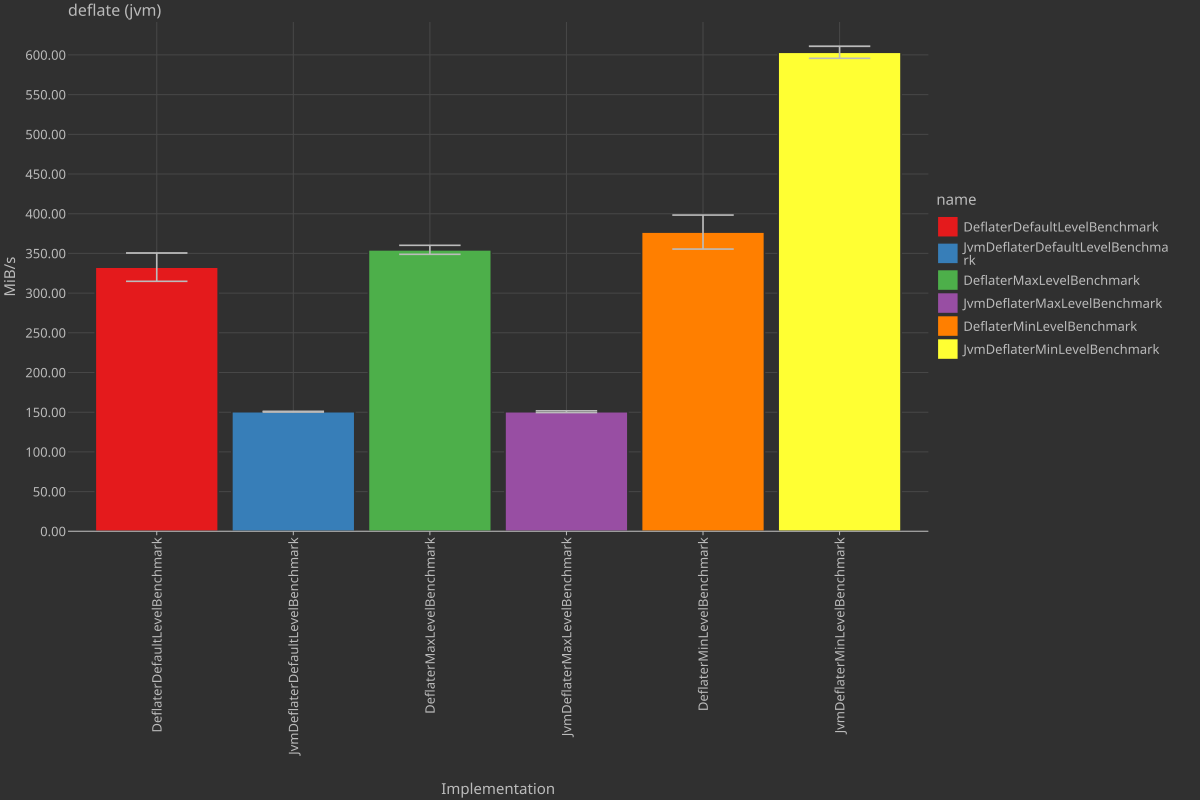
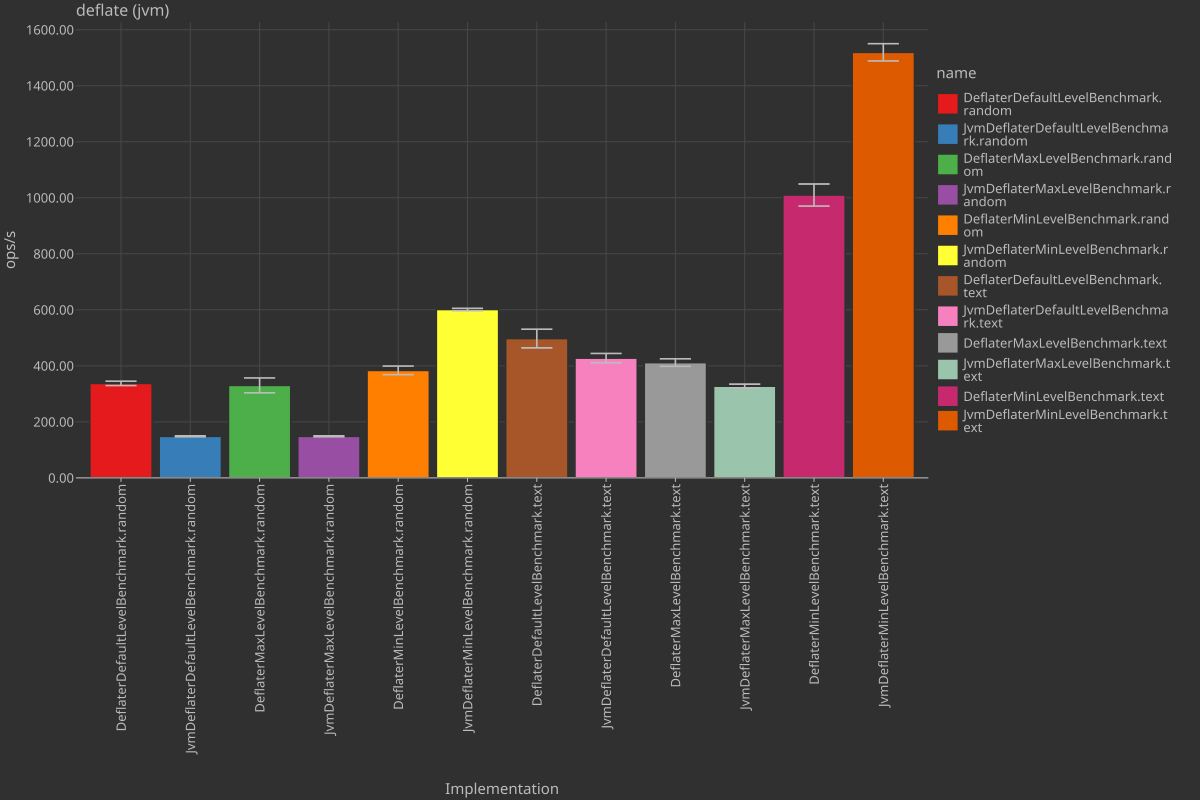
Add text compression benchmark cases, update to latest Karbide version

diff --git a/kompress-benchmarks/src/commonMain/kotlin/dev/karmakrafts/kompress/deflate/AbstractDeflaterBenchmark.kt b/kompress-benchmarks/src/commonMain/kotlin/dev/karmakrafts/kompress/deflate/AbstractDeflaterBenchmark.kt
@@ -33,9 +33,9 @@ abstract class AbstractDeflaterBenchmark(private val level: Int) {
     protected val buffer: Buffer = Buffer()
     protected val chunkBuffer: ByteArray = ByteArray(4096)
 
-    @JvmName("small")
+    @JvmName("random")
     @Benchmark
-    fun small(): ByteArray {
+    fun random(): ByteArray {
         deflater.reset()
         deflater.setInput(data)
         deflater.finish()
@@ -47,9 +47,9 @@ abstract class AbstractDeflaterBenchmark(private val level: Int) {
         return buffer.readByteArray()
     }
 
-    @JvmName("large")
+    @JvmName("text")
     @Benchmark
-    fun large(): ByteArray {
+    fun text(): ByteArray {
         deflater.reset()
         deflater.setInput(aliceInWonderlandData)
         deflater.finish()

diff --git a/kompress-benchmarks/src/commonMain/kotlin/dev/karmakrafts/kompress/deflate/AbstractInflaterBenchmark.kt b/kompress-benchmarks/src/commonMain/kotlin/dev/karmakrafts/kompress/deflate/AbstractInflaterBenchmark.kt
@@ -34,9 +34,9 @@ abstract class AbstractInflaterBenchmark(level: Int) {
     protected val buffer: Buffer = Buffer()
     protected val chunkBuffer: ByteArray = ByteArray(4096)
 
-    @JvmName("small")
+    @JvmName("random")
     @Benchmark
-    fun small(): ByteArray {
+    fun random(): ByteArray {
         inflater.reset()
         inflater.setInput(data)
         inflater.finish()
@@ -48,9 +48,9 @@ abstract class AbstractInflaterBenchmark(level: Int) {
         return buffer.readByteArray()
     }
 
-    @JvmName("large")
+    @JvmName("text")
     @Benchmark
-    fun large(): ByteArray {
+    fun text(): ByteArray {
         inflater.reset()
         inflater.setInput(compressedAliceInWonderland)
         inflater.finish()

diff --git a/kompress-benchmarks/src/jvmMain/kotlin/dev/karmakrafts/kompress/deflate/AbstractJvmDeflaterBenchmark.kt b/kompress-benchmarks/src/jvmMain/kotlin/dev/karmakrafts/kompress/deflate/AbstractJvmDeflaterBenchmark.kt
@@ -33,9 +33,9 @@ abstract class AbstractJvmDeflaterBenchmark(level: Int) {
     protected val buffer: Buffer = Buffer()
     protected val chunkBuffer: ByteArray = ByteArray(4096)
 
-    @JvmName("small")
+    @JvmName("random")
     @Benchmark
-    fun small(): ByteArray {
+    fun random(): ByteArray {
         deflater.reset()
         deflater.setInput(data)
         deflater.finish()
@@ -47,9 +47,9 @@ abstract class AbstractJvmDeflaterBenchmark(level: Int) {
         return buffer.readByteArray()
     }
 
-    @JvmName("large")
+    @JvmName("text")
     @Benchmark
-    fun large(): ByteArray {
+    fun text(): ByteArray {
         deflater.reset()
         deflater.setInput(aliceInWonderlandData)
         deflater.finish()

diff --git a/kompress-benchmarks/src/jvmMain/kotlin/dev/karmakrafts/kompress/deflate/AbstractJvmInflaterBenchmark.kt b/kompress-benchmarks/src/jvmMain/kotlin/dev/karmakrafts/kompress/deflate/AbstractJvmInflaterBenchmark.kt
@@ -34,9 +34,9 @@ abstract class AbstractJvmInflaterBenchmark(level: Int) {
     protected val buffer: Buffer = Buffer()
     protected val chunkBuffer: ByteArray = ByteArray(4096)
 
-    @JvmName("small")
+    @JvmName("random")
     @Benchmark
-    fun small(): ByteArray {
+    fun random(): ByteArray {
         inflater.reset()
         inflater.setInput(data)
         while (true) {
@@ -47,9 +47,9 @@ abstract class AbstractJvmInflaterBenchmark(level: Int) {
         return buffer.readByteArray()
     }
 
-    @JvmName("large")
+    @JvmName("text")
     @Benchmark
-    fun large(): ByteArray {
+    fun text(): ByteArray {
         inflater.reset()
         inflater.setInput(compressedAliceInWonderland)
         while (true) {

diff --git a/CHANGELOG.md b/CHANGELOG.md
@@ -2,10 +2,11 @@
 
 ### Changed
 
+- Performance improvements on all platforms
 - Optimized header checksum computation for `GZipUnarchiver`
 - `GZipOs` now uses [kPlatform](https://github.com/karmakrafts/kPlatform) for host detection
 - Updated to Karma Conventions 1.18.3
-- Updated to Karbide 1.10.7
+- Updated to Karbide 1.10.8
 - Updated to Kotlin Wrappers 2026.7.1
 
 ## [2.3.1]
